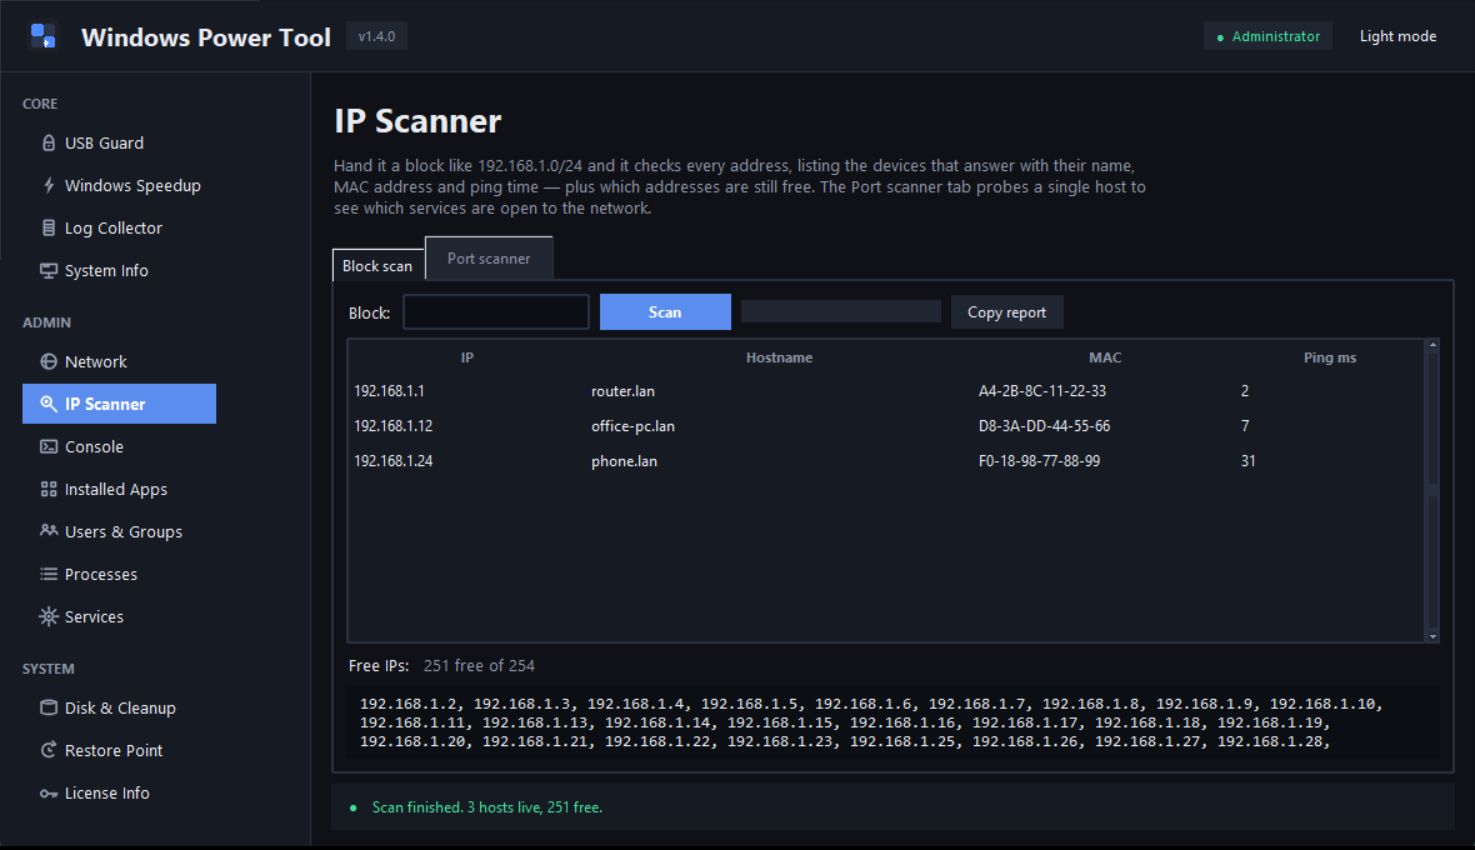
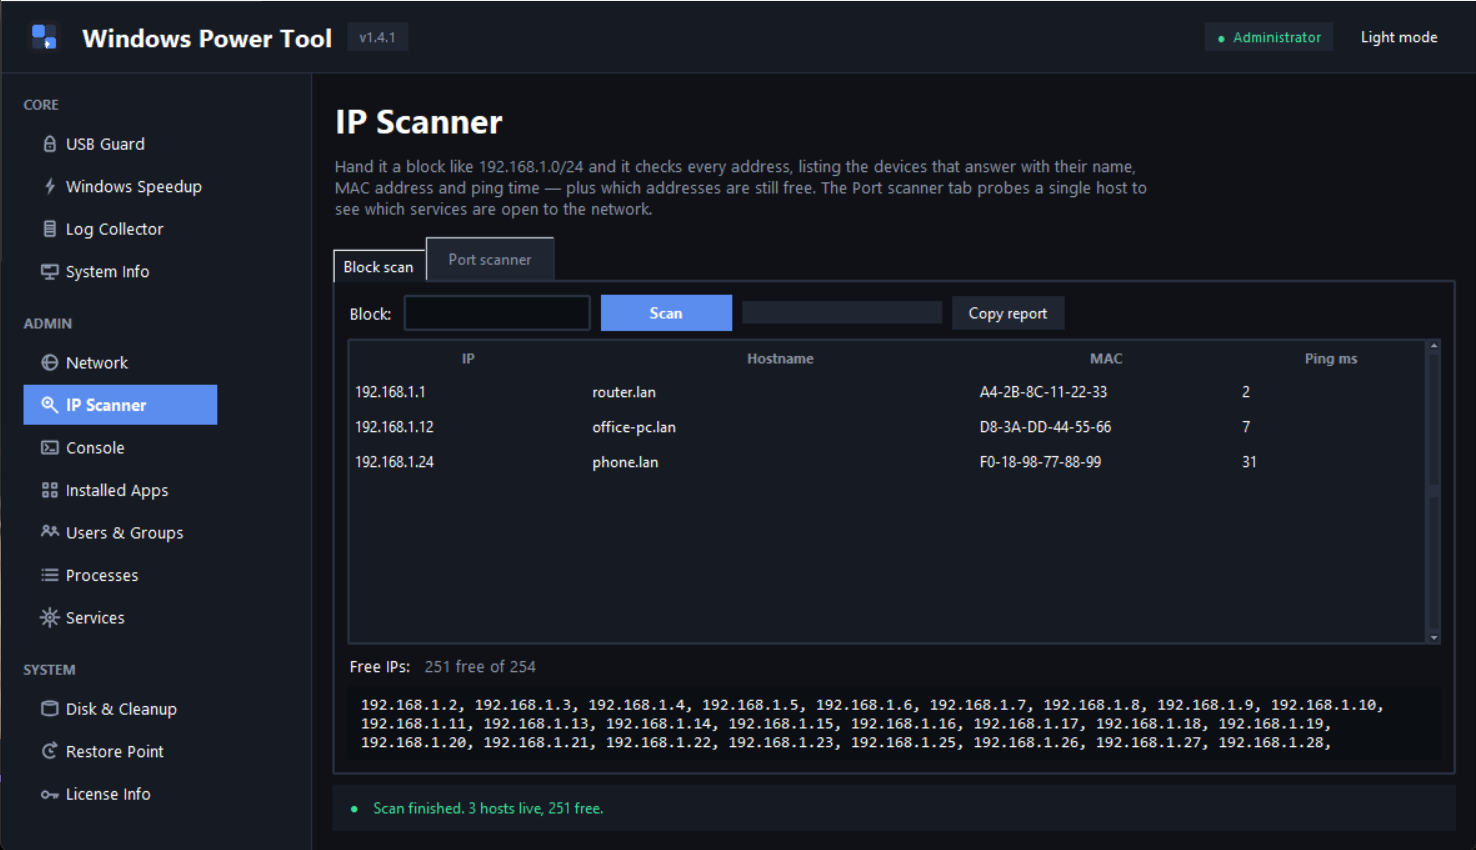
chore: bump to 1.4.1 and refresh screenshots

diff --git a/tests/test_version.py b/tests/test_version.py
@@ -6,8 +6,8 @@ from power_tool import main as main_module
 class VersionTests(unittest.TestCase):
     def test_version_format(self):
         self.assertRegex(__version__, r"^\d+\.\d+\.\d+$")
-    def test_version_is_1_4_0(self):
-        self.assertEqual(__version__, "1.4.0")
+    def test_version_is_1_4_1(self):
+        self.assertEqual(__version__, "1.4.1")
     def test_window_title_includes_version(self):
         src = inspect.getsource(main_module)
         self.assertIn('f"Windows Power Tool {__version__}"', src)

diff --git a/power_tool/__init__.py b/power_tool/__init__.py
@@ -1,1 +1,1 @@
-__version__ = "1.4.0"
+__version__ = "1.4.1"

diff --git a/README.md b/README.md
@@ -12,7 +12,9 @@ Get **WindowsPowerTool.exe** from the [latest release](https://github.com/agentT
 
 > **SmartScreen:** the exe is unsigned, so Windows may show "Windows protected your PC". Click **More info → Run anyway**.
 
-## What's new in 1.4.0
+## What's new in 1.4.x
+
+**1.4.1** accepts a trailing dot on IPs and hostnames in the port scanner, and uses full black/white button text for better contrast.
 
 - **IP Scanner** — sweep a block, see every host with its name, MAC and ping time, get the addresses that are still free, and port-scan a single machine.
 - **Add User** — create a local account from Users & Groups, with the exact commands shown before anything runs and the password kept out of the preview.
